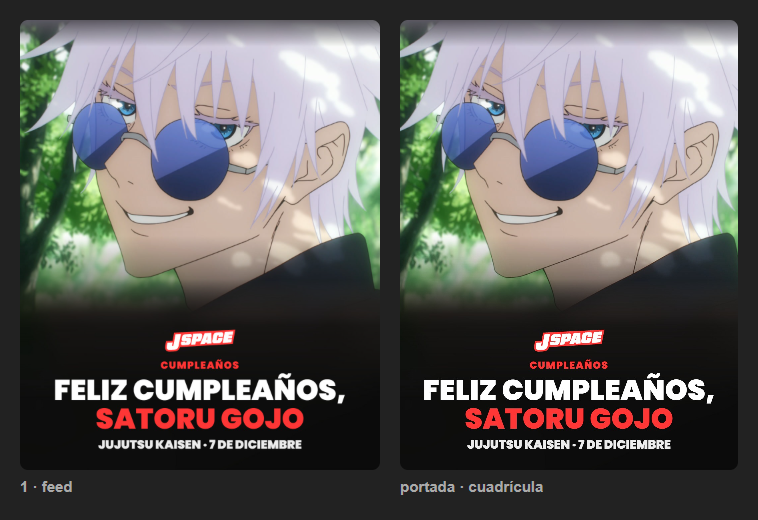
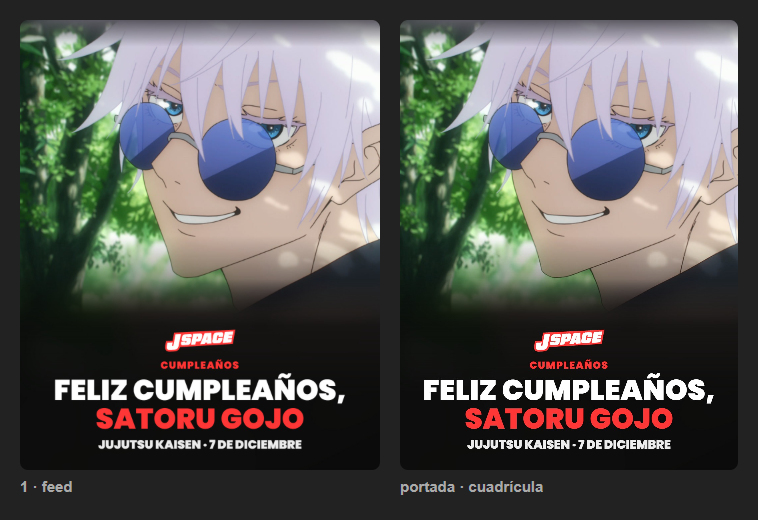
Efemérides: alerta por Telegram de las que no tienen foto, encuadre centrado y textos corregidos
- El bot avisa a Kazuo por privado 2 días antes de cada efeméride en «falta imagen»
- SU-METAL sale de la cola (fotos descartadas) y 8 más quedan en «falta imagen»
- hide, Hisaishi y Paprika con la bajada que dice el rol o el crédito
- Megumin, SUZUKA, Eir Aoi, Megumi, Kageyama, Levi y Gojo recentrados
- Reglas nuevas en CLAUDE.md y aprendido.md

diff --git a/scripts/efemerides-base.py b/scripts/efemerides-base.py
@@ -253,14 +253,15 @@ for e in lista:
     else:
         e['estado'] = 'aprobada' if dec.get(k, 'va' if e['orden'] == 1 else 'no') == 'va' else 'no va'
     v = viejo.get((e['fecha'], e['que']))
-    if v and v.get('estado') in ('programada', 'publicada', 'descartada'):
-        e.update({k: v[k] for k in ('estado', 'carpeta', 'nota') if k in v})
+    if v and v.get('estado') in ('programada', 'publicada', 'descartada', 'falta imagen'):
+        e.update({k: v[k] for k in ('estado', 'carpeta', 'nota', 'alertado') if k in v})
 
 out = {
     'nota': ('Calendario de efemérides APROBADO por Kazuo el 25 nov 2026: no necesita aprobación del grupo. La rutina de '
              'las 8:00 arma y programa sola, una semana antes, TODAS las de estado «aprobada» (puede haber varias el mismo día; '
              '«no va» = Kazuo no la quiere). Antes de diseñar, confirma la fecha en una fuente seria; si no cuadra, '
-             'estado «descartada» con la nota del porqué. Estados: aprobada → programada (con carpeta) → publicada; no va; descartada; por revisar (aún sin aprobar: no se arma).'),
+             'estado «descartada» con la nota del porqué. Estados: aprobada → programada (con carpeta) → publicada; no va; descartada; por revisar (aún sin aprobar: no se arma); '
+             'falta imagen (no hay foto buena: NO se arma; el bot le avisa a Kazuo por privado 2 días antes para que mande la foto).'),
     'lista': lista,
 }
 json.dump(out, open(RUTA, 'w', encoding='utf-8', newline='\n'), ensure_ascii=False, indent=1)

diff --git a/CLAUDE.md b/CLAUDE.md
@@ -148,6 +148,18 @@ Gojo**») y `"subtitulo"` de una línea (obra, o edad y fecha).
   (centro de su cabeza en la slide; por defecto [540, 400]) y, si hace falta, `"radio"` (por defecto 370) para que el
   arco rodee la cabeza. Debajo del subtítulo, `"texto"` con MÁXIMO 3 obras: «Autor de **Bleach**, **Burn the Witch**
   y **Klub**». Las burbujas son solo para las obras, nunca para el protagonista.
+- **El protagonista SIEMPRE centrado** (Kazuo, 25 nov 2026: Megumin quedó cargada a un lado). Antes de dar por buena
+  la imagen, ubica el centro de su cara en la foto original (con una cuadrícula si hace falta) y recorta para que quede
+  en el centro horizontal de la slide. Si la foto no deja centrarla sin cortar la cara, busca otra.
+- **La bajada dice qué es el protagonista** respecto a la obra o el grupo: «Compositor de Studio Ghibli · 76 años»,
+  «Guitarrista de X JAPAN · 1964 – 1998», nunca solo «Studio Ghibli · cumple 76 años» (parece que cumple el estudio). En
+  aniversarios, el crédito va integrado en el título («**Paprika**, de Satoshi Kon, cumple 20 años») y la bajada lleva
+  el dato del estreno. Bajadas de UNA línea: si se parte, acórtala.
+- **Sin imagen buena, no se arma** (Kazuo, 25 nov 2026). Si después de buscar no hay una foto o visual oficial en alta,
+  bien encuadrada y con buena estética, NO la armes ni la programes: ponle `"estado": "falta imagen"` y una `nota` con lo
+  que buscaste. El bot le escribe a Kazuo por privado 2 días antes de la fecha para que él mande la foto; cuando llegue
+  por el chat, ármala con esa foto y prográmala. Si Kazuo descarta las fotos de una ya armada, borra su carpeta y
+  pásala a «falta imagen».
 - SIN slide de cierre ni ninguna otra. Lo que haya que contar va en la leyenda. Sin reel de prueba aparte
   (`"reel_prueba": false`).
 
